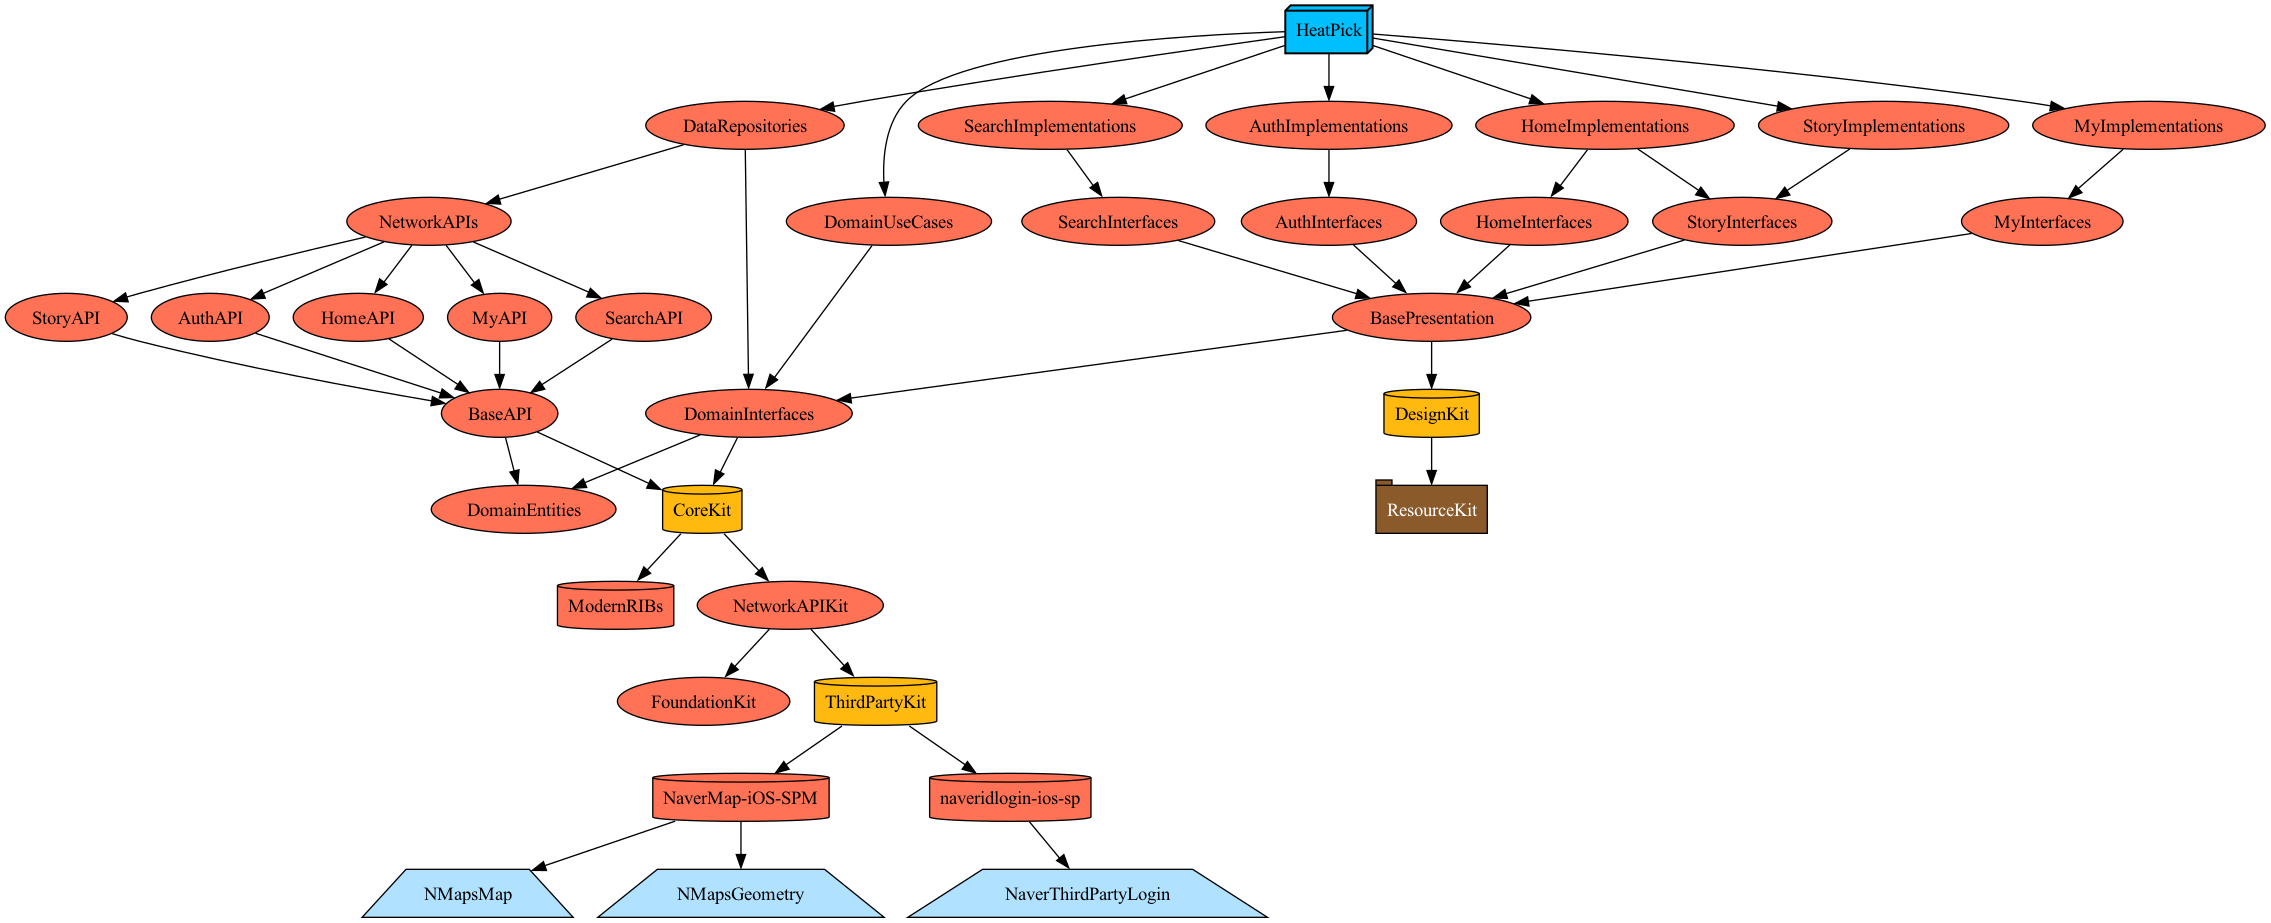
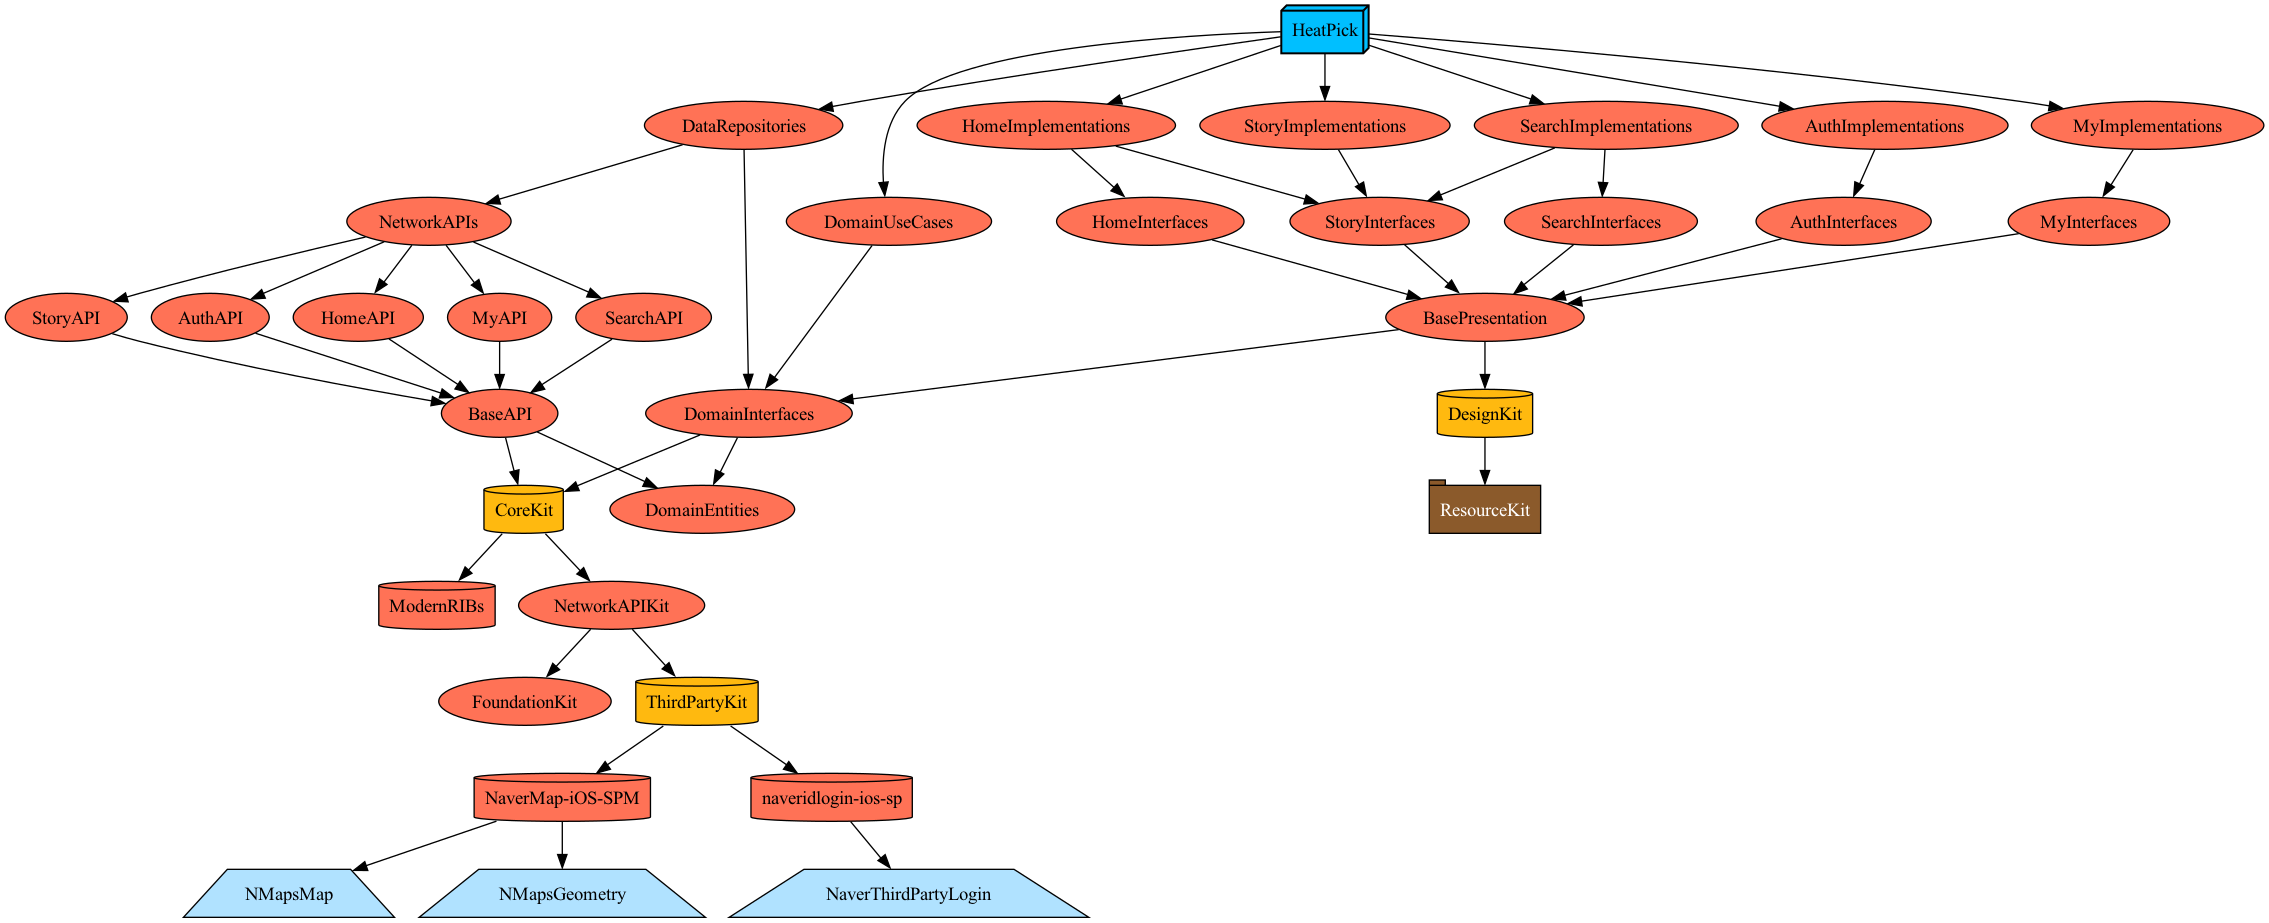
package: Search에 StoryInterface 의존성 추가

diff --git a/client/Targets/Presentation/Search/Demo/Project.swift b/client/Targets/Presentation/Search/Demo/Project.swift
@@ -7,6 +7,8 @@ let project = Project.demo(
     dependencies: [
         .Target.Presentation.Search.Interfaces,
         .Target.Presentation.Search.Implementations,
+        .Target.Presentation.Story.Interfaces,
+        .Target.Presentation.Story.Implementations,
         .Target.Data.Repositories,
         .Target.Domain.UseCases
     ]

diff --git a/client/Targets/Presentation/Search/Implementations/Project.swift b/client/Targets/Presentation/Search/Implementations/Project.swift
@@ -7,5 +7,6 @@ let project = Project.framework(
     featureTargets: [.staticLibrary, .tests],
     dependencies: [
         .Target.Presentation.Search.Interfaces,
+        .Target.Presentation.Story.Interfaces
     ]
 )
